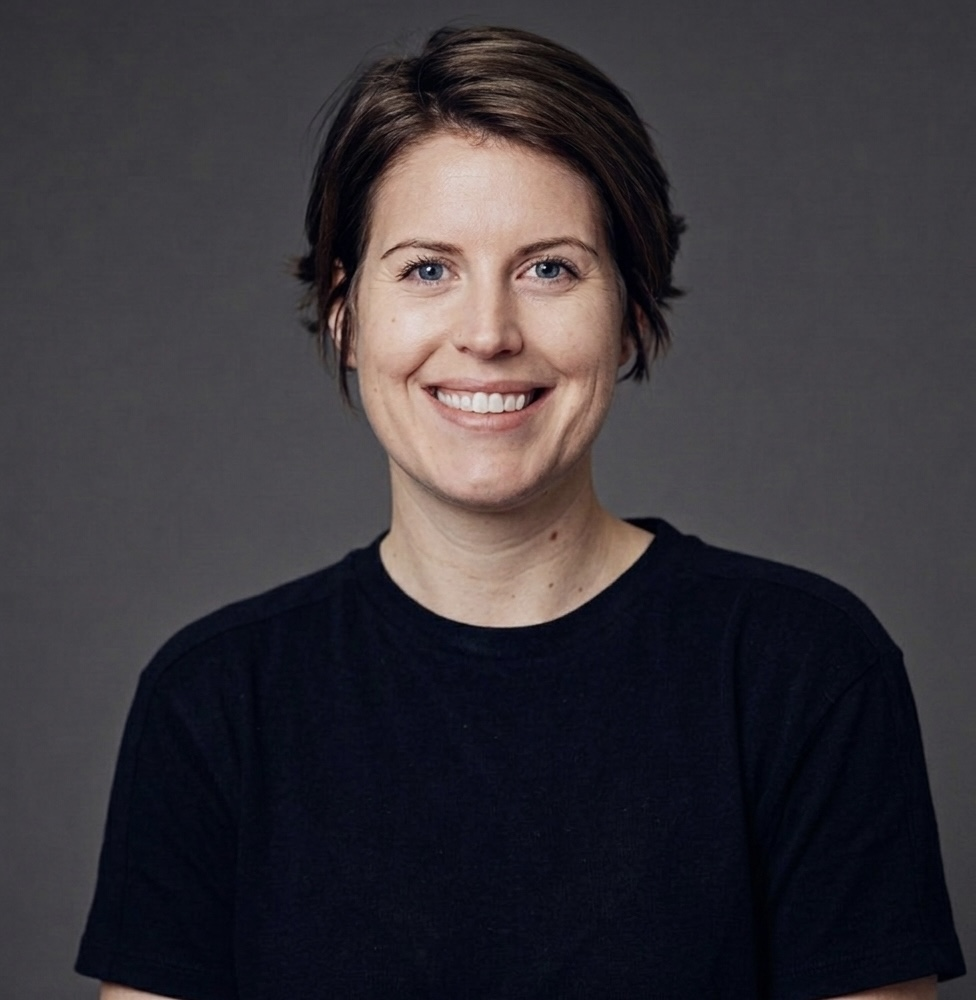
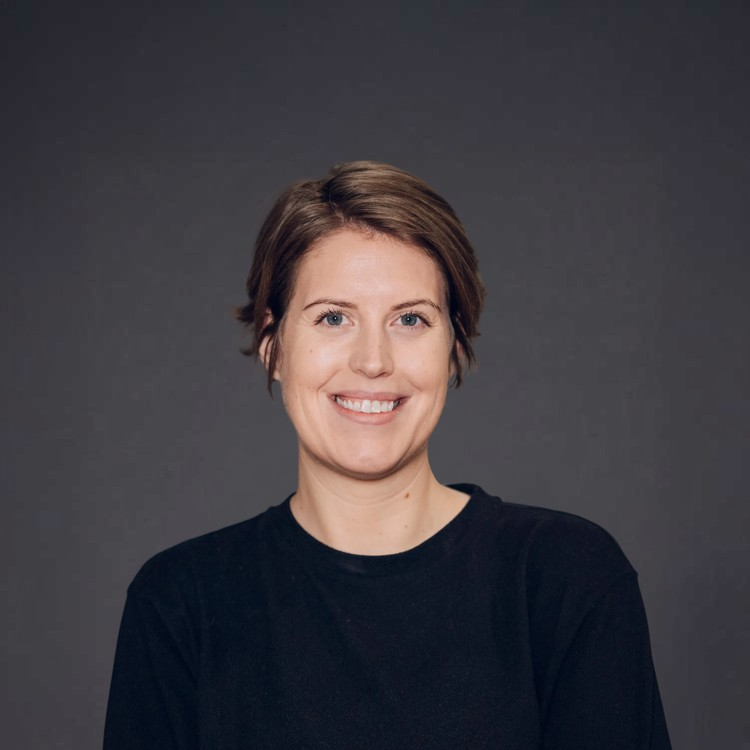
Update Line Hjartarson: new photo, shorter bio, matched sizing
- Replace Line's photo with approved image (resized to 750x750 to match team)
- Shorten bio to match deck version
- Updated in both code defaults and Sanity CMS

Changed region(s): [[0.0613, 0.0307, 1.0, 1.0], [0.7667, 0.8893, 0.7973, 0.9813]]

diff --git a/src/app/about/page.tsx b/src/app/about/page.tsx
@@ -40,7 +40,7 @@ const defaultData = {
     {
       name: "Line Hjartarson",
       role: "Head of Product Design & Delivery",
-      bio: "Line works in the \u201cmessy middle\u201d between design and engineering, turning fuzzy requirements into shippable, scalable product experiences. She has led design and delivery for industrial data and security platforms as Director of Design at Omny and Principal Designer at Cognite, building interfaces and design systems that engineers and data scientists rely on. At PEVio, Line is Head of Product Design & Delivery, making our Applied Specialised Intelligence understandable, secure and trustworthy for investment teams, reducing adoption risk for customers and de\u2011risking product execution for investors through clear workflows, interfaces, and onboarding.",
+      bio: "15+ years at the intersection of design and engineering, including Director of Design at Omny and Principal Designer at Cognite for data\u2011heavy industrial and security software. Leads PEVio\u2019s product design and delivery from MVP to operational platform, shaping UX, onboarding and roadmap so PE, VC and corporate M&A teams can adopt ASI with confidence and minimal change\u2011management friction.",
       photo: null as null,
       linkedinUrl: undefined as string | undefined,
     },
